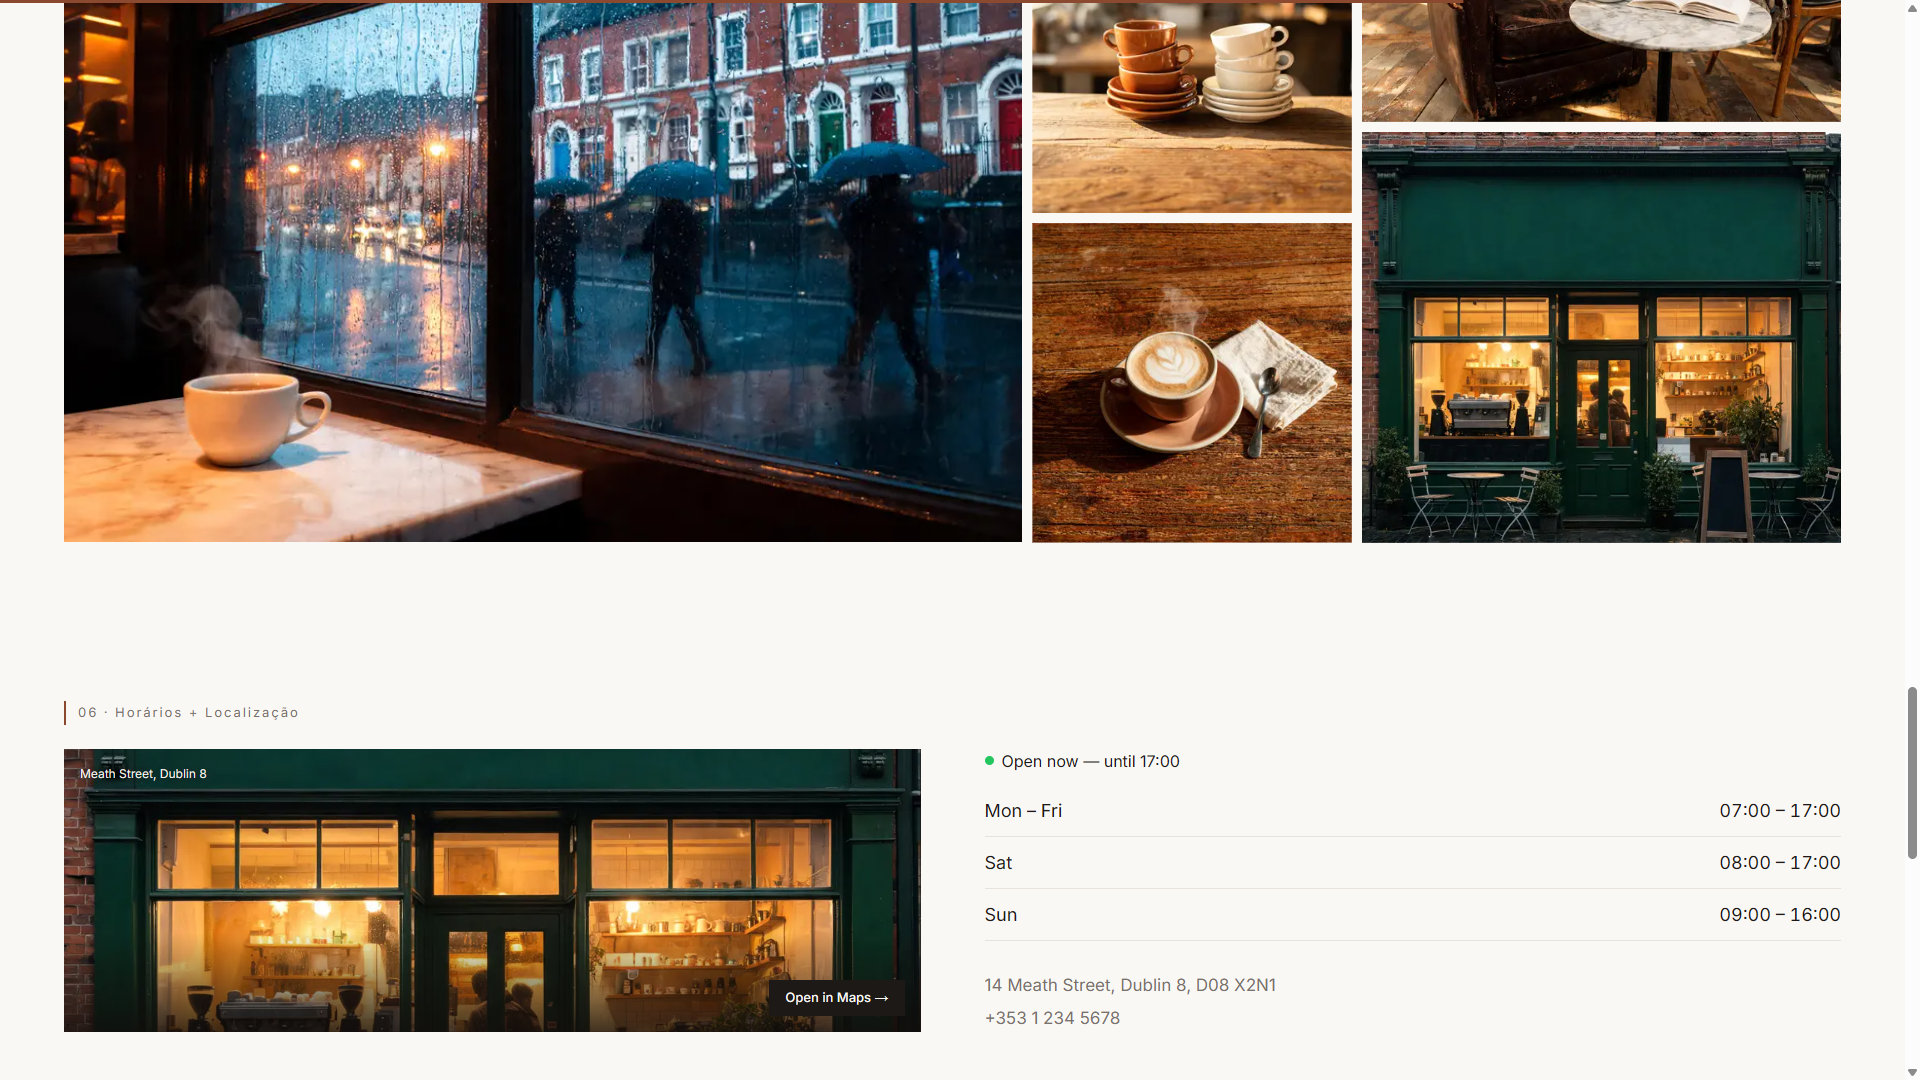
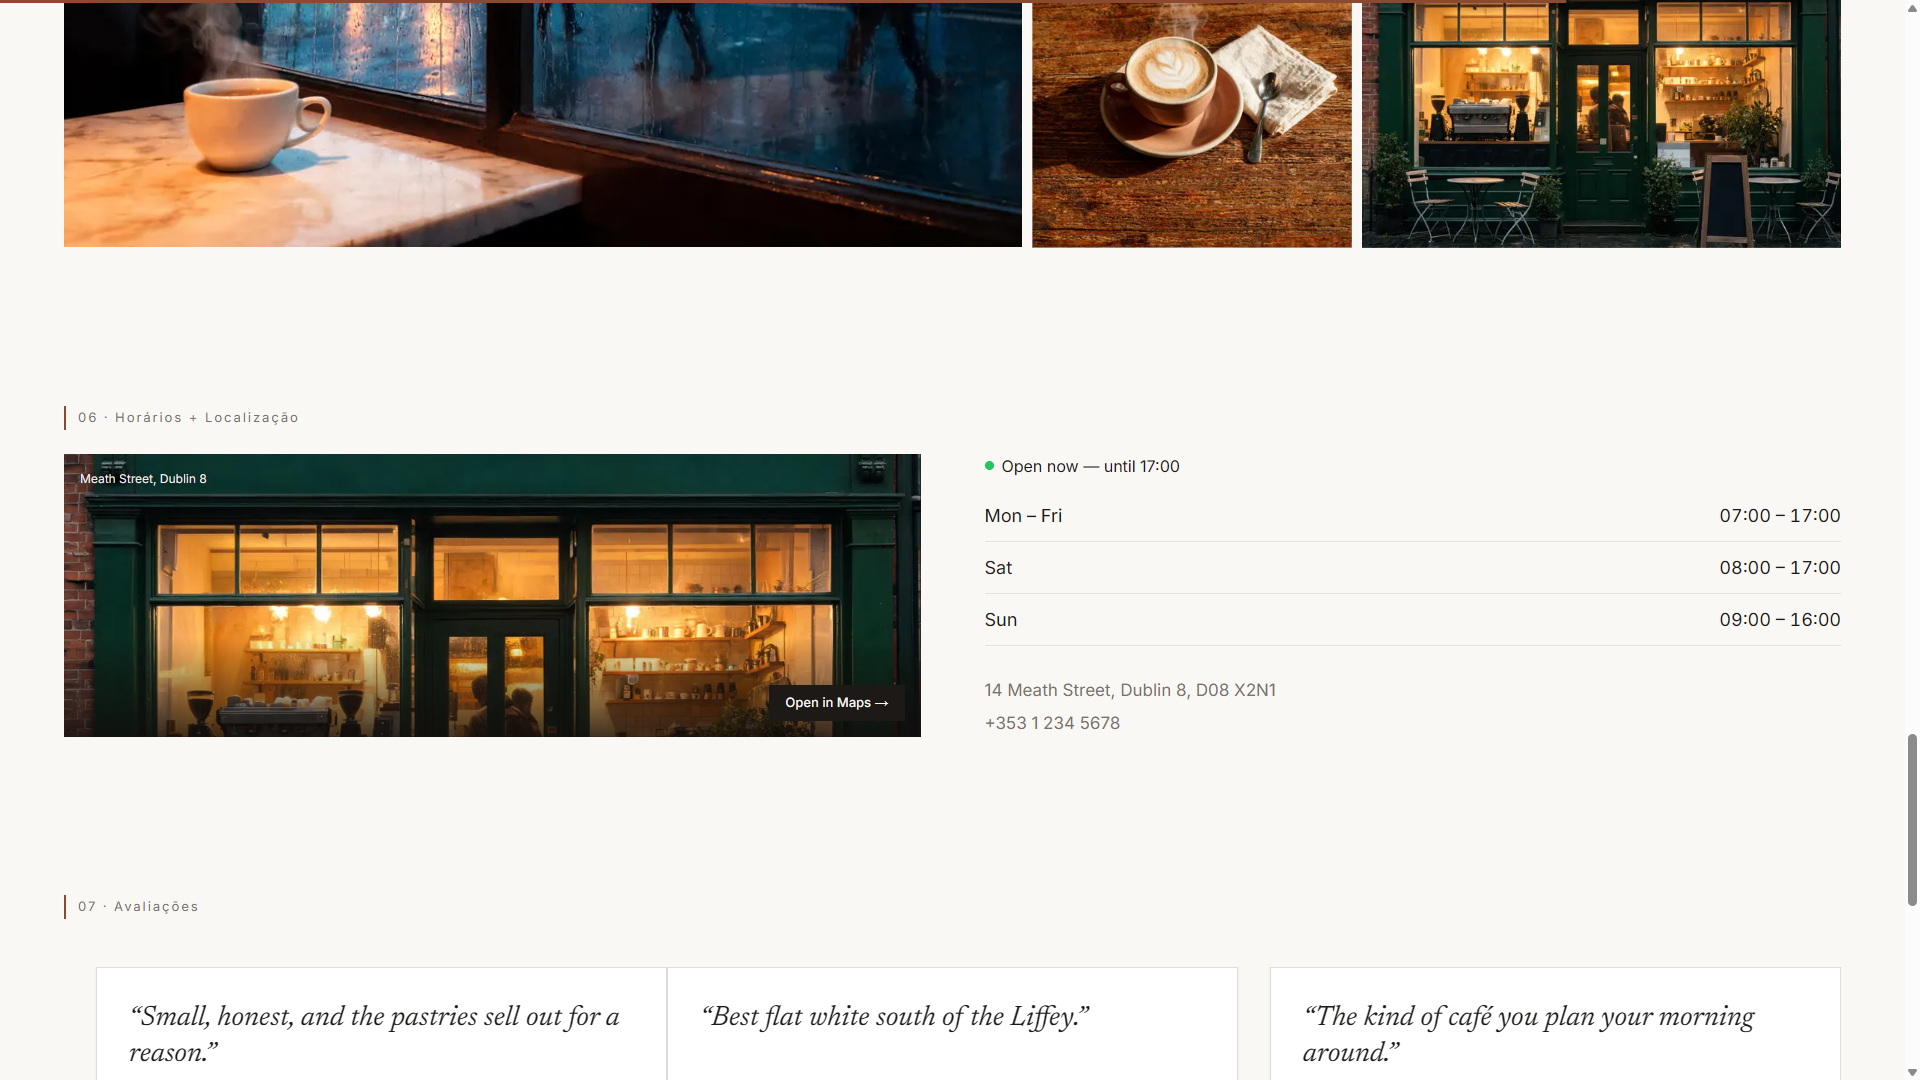
fase 19: aperta escopo do CSS (overflow:hidden so dentro do media query desktop)

diff --git a/climber-react/app/cafe-lisboa/styles.css b/climber-react/app/cafe-lisboa/styles.css
@@ -202,10 +202,6 @@
    padrão (mobile e fallback de hidratação) o quadro e a imagem ficam no
    estado final, sem clip nem escala nenhuma. Só transform e clip-path
    animam — nunca width/height/top/left/margin/background-position. */
-.cl-photo-reveal-frame {
-  overflow: hidden;
-}
-
 /* position:absolute + inset:0 (não height/width:100%) — um pai dimensionado
    só por min-height (ex.: a foto do manifesto no mobile, min-h-[280px] sem
    height explícito) não resolve porcentagem de altura em bloco normal (o
@@ -223,6 +219,15 @@
 }
 
 @media (min-width: 769px) {
+  /* overflow:hidden só entra aqui — no mobile o clipping já vem do
+     MaskReveal (que embrulha o mesmo conteúdo por dentro, ver
+     manifesto.tsx/gallery-grid.tsx); a fachada (hours.tsx, sem MaskReveal)
+     nunca tem filho maior que o quadro no mobile (a imagem só ganha
+     scale() aqui dentro), então não há nada pra vazar sem esta regra lá. */
+  .cl-photo-reveal-frame {
+    overflow: hidden;
+  }
+
   .cl-photo-reveal-clip {
     clip-path: inset(100% 0 0 0);
     transition: clip-path 900ms cubic-bezier(0.16, 1, 0.3, 1);
